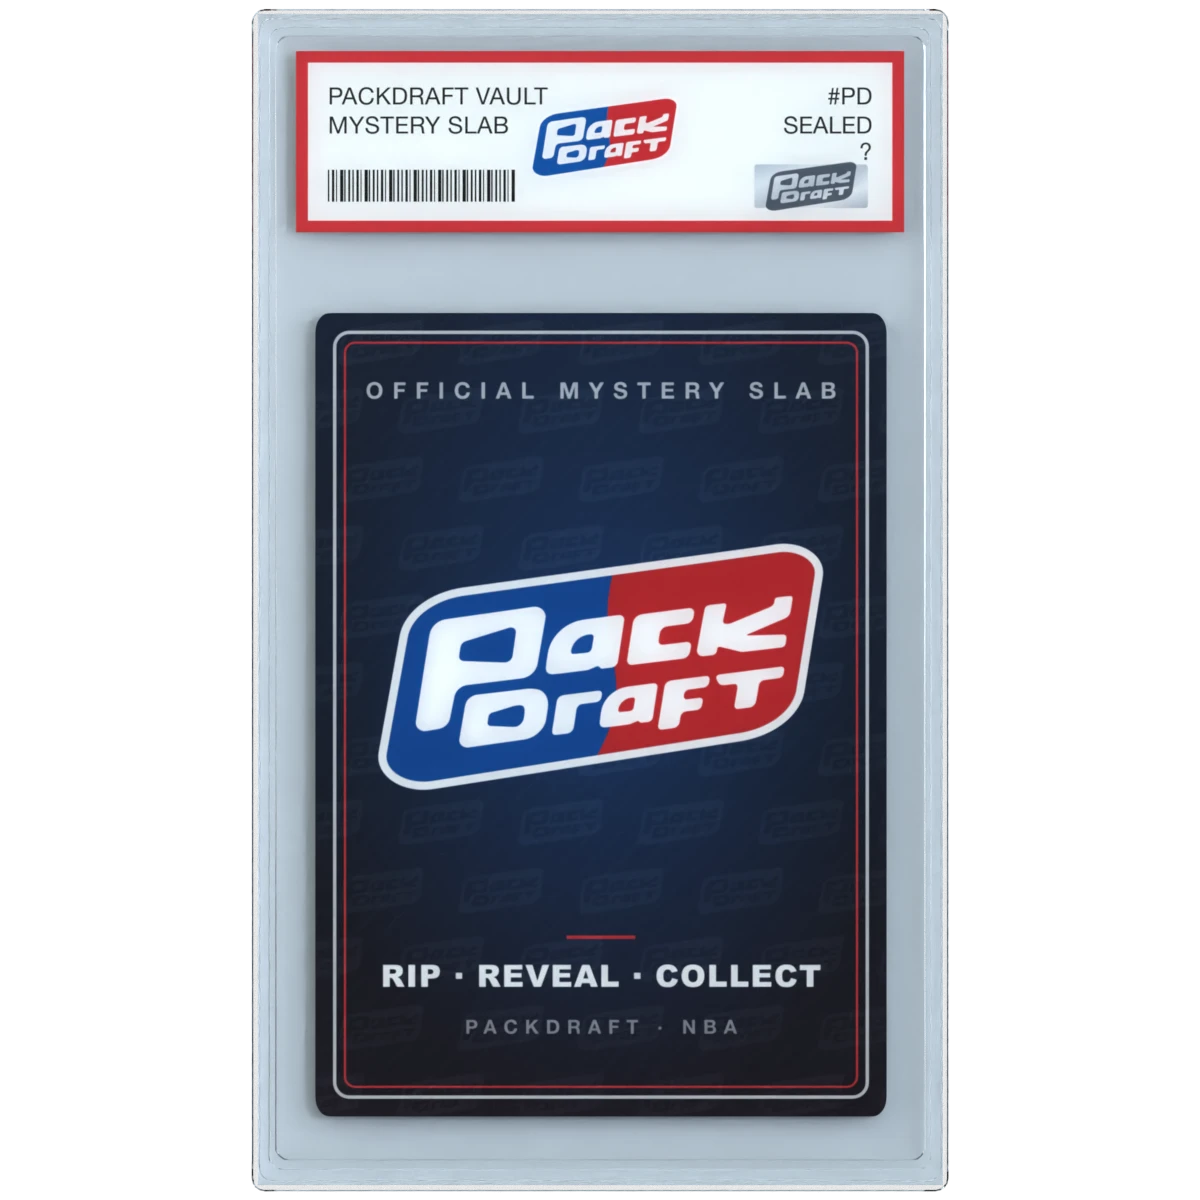
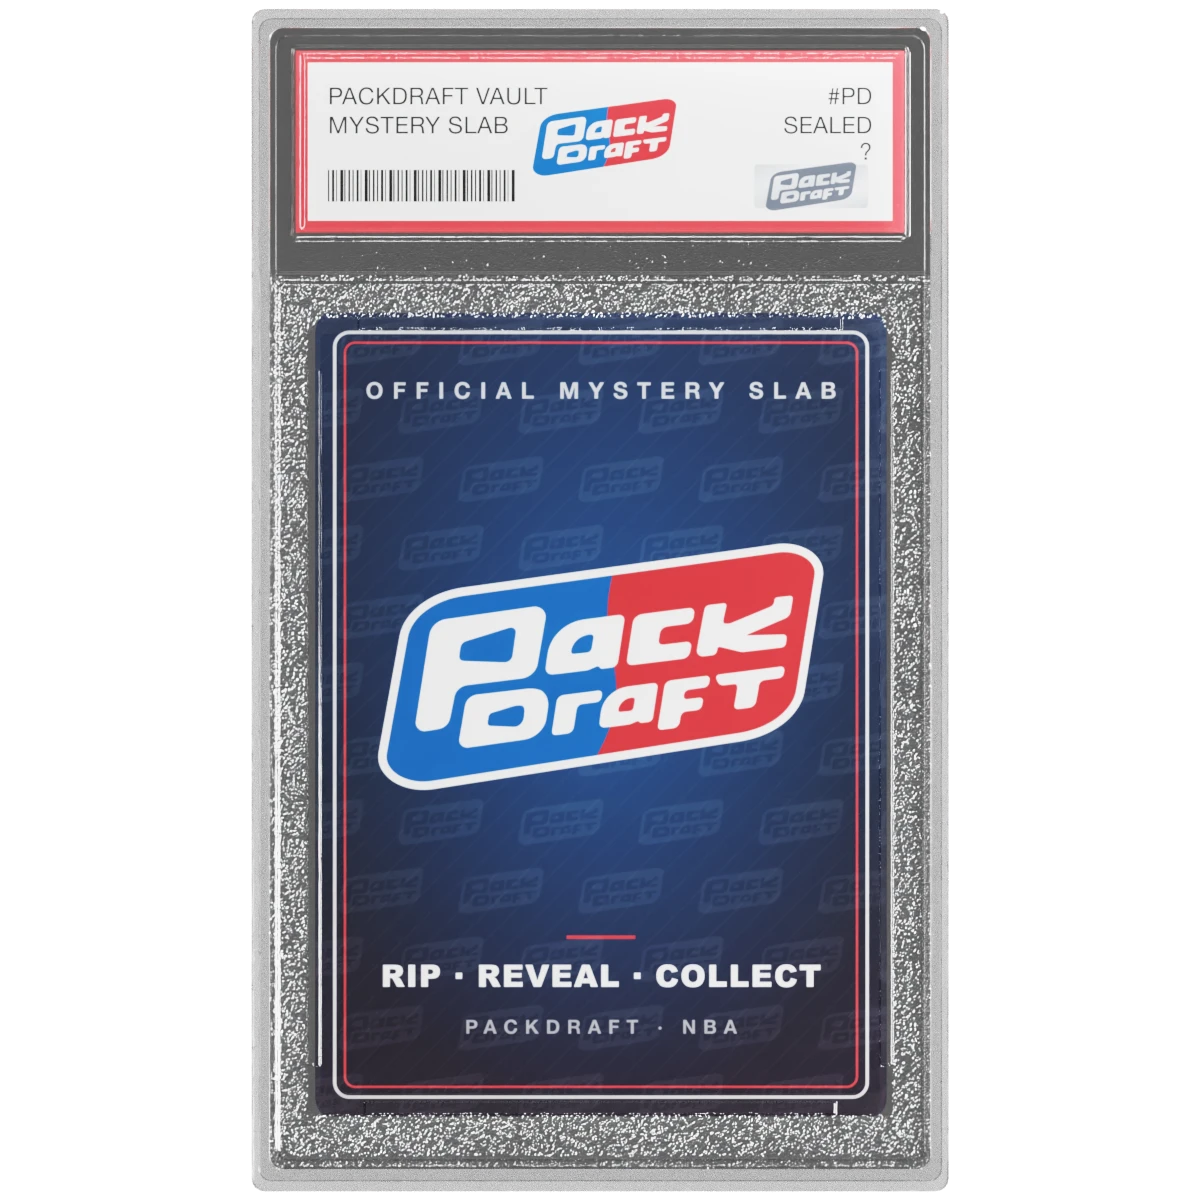
Slab back: render with the file's original frosted case materials and lights

diff --git a/src/app/packs/VendingMachine.tsx b/src/app/packs/VendingMachine.tsx
@@ -266,7 +266,7 @@ export function VendingMachine({ coins, inventory, buy, rip, sell, tester = fals
                             revealed slab scan (SlabCard), so the flip swaps back for front without a size jump. */}
                         <div className="flip-face absolute inset-0 flex flex-col items-center">
                           {/* eslint-disable-next-line @next/next/no-img-element */}
-                          <img src="/slab-back.webp" alt="" draggable={false} className="pointer-events-none max-w-none select-none"
+                          <img src="/slab-back.webp?v=2" alt="" draggable={false} className="pointer-events-none max-w-none select-none"
                             style={{ width: 260, height: 260, filter: hit ? "drop-shadow(0 0 14px rgba(251,191,36,.75))" : "drop-shadow(0 8px 12px rgba(0,0,0,.35))" }} />
                           {hit
                             ? <p className="mt-3 animate-pulse rounded-full bg-amber-400 px-2.5 py-0.5 text-[10px] font-black tracking-widest text-black">CASE HIT</p>

diff --git a/scripts/slab-back/render.py b/scripts/slab-back/render.py
@@ -1,5 +1,5 @@
 # Renders the shared slab back from PackDraft-3D-Slab.blend, framed like the 1200×1200 slab scans.
-#   Blender -b PackDraft-3D-Slab.blend -P scripts/slab-back/render.py -- <texDir> <out.png> [samples] [--save]
+#   Blender -b PackDraft-3D-Slab.blend -P scripts/slab-back/render.py -- <texDir> <out.png> [samples] [--clarity 0.5] [--clear-acrylic] [--scan-lights] [--save]
 import bpy, sys, os, glob, math
 
 argv = sys.argv[sys.argv.index("--") + 1:]
@@ -24,31 +24,42 @@ def set_tex(mat, file):
 set_tex(bpy.data.materials["Material.002"], "label.png")
 set_tex(bpy.data.materials["Material.001"], "card.png")
 
-# Clear acrylic case (the original had frosted/dispersion shaders that hazed the label) over a light grey
-# insert, which is what the scans show around the card.
-def plastic(name, rough):
-    m = bpy.data.materials.get(name) or bpy.data.materials.new(name); m.use_nodes = True
-    b = next(n for n in m.node_tree.nodes if n.type == "BSDF_PRINCIPLED")
-    b.inputs["Base Color"].default_value = (0.95, 0.96, 0.97, 1)
-    b.inputs["Transmission Weight"].default_value = 1.0
-    b.inputs["Roughness"].default_value = rough
-    b.inputs["IOR"].default_value = 1.49
-    return m
-for name, rough in (("CASE", 0.06), ("INNER CASE", 0.02)):
-    o = bpy.data.objects[name]
-    for slot in o.material_slots: slot.material = plastic("Scan_Acrylic_" + name.replace(" ", "_"), rough)
-    o.visible_shadow = False  # let light reach the card directly; Cycles won't do caustics through the acrylic
-ins = bpy.data.objects.get("Scan_Insert")
-if not ins:
-    me = bpy.data.meshes.new("Scan_Insert")
-    x0, x1, z0, z1, y = -0.121, 0.120, 0.017, 0.429, 0.0046
-    me.from_pydata([(x0, y, z0), (x1, y, z0), (x1, y, z1), (x0, y, z1)], [], [(0, 1, 2, 3)])
-    ins = bpy.data.objects.new("Scan_Insert", me); sc.collection.objects.link(ins)
-    m = bpy.data.materials.new("Scan_Insert"); m.use_nodes = True
-    bb = next(n for n in m.node_tree.nodes if n.type == "BSDF_PRINCIPLED")
-    bb.inputs["Base Color"].default_value = (0.5, 0.52, 0.55, 1); bb.inputs["Roughness"].default_value = 0.6
-    me.materials.append(m)
-ins.hide_render = False
+# Default keeps the file's original frosted case materials (Brayden's call). --clear-acrylic swaps in clear
+# plastic over a grey insert, closer to a flat scanner look.
+if "--clear-acrylic" in argv:
+    # Clear acrylic case (the original had frosted/dispersion shaders that hazed the label) over a light grey
+    # insert, which is what the scans show around the card.
+    def plastic(name, rough):
+        m = bpy.data.materials.get(name) or bpy.data.materials.new(name); m.use_nodes = True
+        b = next(n for n in m.node_tree.nodes if n.type == "BSDF_PRINCIPLED")
+        b.inputs["Base Color"].default_value = (0.95, 0.96, 0.97, 1)
+        b.inputs["Transmission Weight"].default_value = 1.0
+        b.inputs["Roughness"].default_value = rough
+        b.inputs["IOR"].default_value = 1.49
+        return m
+    for name, rough in (("CASE", 0.06), ("INNER CASE", 0.02)):
+        o = bpy.data.objects[name]
+        for slot in o.material_slots: slot.material = plastic("Scan_Acrylic_" + name.replace(" ", "_"), rough)
+        o.visible_shadow = False  # let light reach the card directly; Cycles won't do caustics through the acrylic
+    ins = bpy.data.objects.get("Scan_Insert")
+    if not ins:
+        me = bpy.data.meshes.new("Scan_Insert")
+        x0, x1, z0, z1, y = -0.121, 0.120, 0.017, 0.429, 0.0046
+        me.from_pydata([(x0, y, z0), (x1, y, z0), (x1, y, z1), (x0, y, z1)], [], [(0, 1, 2, 3)])
+        ins = bpy.data.objects.new("Scan_Insert", me); sc.collection.objects.link(ins)
+        m = bpy.data.materials.new("Scan_Insert"); m.use_nodes = True
+        bb = next(n for n in m.node_tree.nodes if n.type == "BSDF_PRINCIPLED")
+        bb.inputs["Base Color"].default_value = (0.5, 0.52, 0.55, 1); bb.inputs["Roughness"].default_value = 0.6
+        me.materials.append(m)
+    ins.hide_render = False
+elif "--clarity" in argv:
+    # --clarity C (0–1): keep the frosted case but cut its blur and glare so the label and card read.
+    c = float(argv[argv.index("--clarity") + 1])
+    for m in {s.material for o in ("CASE",) for s in bpy.data.objects[o].material_slots if s.material}:
+        b = next((n for n in m.node_tree.nodes if n.type == "BSDF_PRINCIPLED"), None)
+        if b:
+            b.inputs["Roughness"].default_value *= (1 - c)
+            b.inputs["IOR"].default_value = 1.5 + (b.inputs["IOR"].default_value - 1.5) * (1 - c)
 
 # Straight-on orthographic camera, slab filling the frame height like the scans.
 cam = bpy.data.objects.get("Scan_Cam") or bpy.data.objects.new("Scan_Cam", bpy.data.cameras.new("Scan_Cam"))
@@ -59,30 +70,36 @@ cam.location = (-0.0006, -1.0, 0.2228)
 cam.rotation_euler = (math.radians(90), 0, 0)
 sc.camera = cam
 
-# Scanner-like light: big soft panels from the front, a little from above to pick out the case bevels.
-def area(name, loc, rot, energy, size):
-    l = bpy.data.objects.get(name) or bpy.data.objects.new(name, bpy.data.lights.new(name, "AREA"))
-    if l.name not in sc.collection.objects: sc.collection.objects.link(l)
-    l.data.energy, l.data.size = energy, size
-    l.location, l.rotation_euler = loc, rot
-    return l
-for o in bpy.data.objects:
-    if o.type == "LIGHT": o.hide_render = True
-# Lights sit off-axis so the flat acrylic face never mirrors them straight into the camera (that washes the art out).
-for l in (area("Scan_Left", (-0.75, -0.6, 0.45), (math.radians(70), 0, math.radians(-50)), 4, 0.9),
-          area("Scan_Right", (0.75, -0.6, 0.35), (math.radians(75), 0, math.radians(50)), 3, 0.9),
-          area("Scan_Top", (0, -0.35, 0.95), (math.radians(25), 0, 0), 1.5, 0.8)):
-    l.hide_render = False; l.visible_camera = False
-
-w = bpy.data.worlds.new("ScanWorld"); sc.world = w; w.use_nodes = True
-nt = w.node_tree; nt.nodes.clear()
-bg, out = nt.nodes.new("ShaderNodeBackground"), nt.nodes.new("ShaderNodeOutputWorld")
 hdr = glob.glob(os.path.join(os.path.dirname(bpy.app.binary_path), "../Resources/*/datafiles/studiolights/world/studio.exr"))
-if hdr:
-    env = nt.nodes.new("ShaderNodeTexEnvironment"); env.image = bpy.data.images.load(os.path.abspath(hdr[0]), check_existing=True)
-    nt.links.new(env.outputs["Color"], bg.inputs["Color"])
-bg.inputs["Strength"].default_value = 0.25
-nt.links.new(bg.outputs["Background"], out.inputs["Surface"])
+if "--scan-lights" in argv:
+    # Scanner-like light: big soft panels from the front, a little from above to pick out the case bevels.
+    def area(name, loc, rot, energy, size):
+        l = bpy.data.objects.get(name) or bpy.data.objects.new(name, bpy.data.lights.new(name, "AREA"))
+        if l.name not in sc.collection.objects: sc.collection.objects.link(l)
+        l.data.energy, l.data.size = energy, size
+        l.location, l.rotation_euler = loc, rot
+        return l
+    for o in bpy.data.objects:
+        if o.type == "LIGHT": o.hide_render = True
+    # Lights sit off-axis so the flat acrylic face never mirrors them straight into the camera (that washes the art out).
+    for l in (area("Scan_Left", (-0.75, -0.6, 0.45), (math.radians(70), 0, math.radians(-50)), 4, 0.9),
+              area("Scan_Right", (0.75, -0.6, 0.35), (math.radians(75), 0, math.radians(50)), 3, 0.9),
+              area("Scan_Top", (0, -0.35, 0.95), (math.radians(25), 0, 0), 1.5, 0.8)):
+        l.hide_render = False; l.visible_camera = False
+
+    w = bpy.data.worlds.new("ScanWorld"); sc.world = w; w.use_nodes = True
+    nt = w.node_tree; nt.nodes.clear()
+    bg, out = nt.nodes.new("ShaderNodeBackground"), nt.nodes.new("ShaderNodeOutputWorld")
+    hdr = glob.glob(os.path.join(os.path.dirname(bpy.app.binary_path), "../Resources/*/datafiles/studiolights/world/studio.exr"))
+    if hdr:
+        env = nt.nodes.new("ShaderNodeTexEnvironment"); env.image = bpy.data.images.load(os.path.abspath(hdr[0]), check_existing=True)
+        nt.links.new(env.outputs["Color"], bg.inputs["Color"])
+    bg.inputs["Strength"].default_value = 0.25
+    nt.links.new(bg.outputs["Background"], out.inputs["Surface"])
+elif hdr and sc.world:
+    # Original lights and world. The file's HDRI is a missing Windows path, so swap in Blender's studio HDRI.
+    for n in sc.world.node_tree.nodes:
+        if n.type == "TEX_ENVIRONMENT": n.image = bpy.data.images.load(os.path.abspath(hdr[0]), check_existing=True)
 
 r = sc.render
 r.engine = "CYCLES"
@@ -97,7 +114,8 @@ r.resolution_x = r.resolution_y = 1200; r.resolution_percentage = 100
 r.film_transparent = True
 r.use_compositing = False  # the file had a lens-dispersion comp that smeared the label text
 r.image_settings.file_format = "PNG"; r.image_settings.color_mode = "RGBA"
-sc.view_settings.view_transform = "Standard"; sc.view_settings.look = "None"; sc.view_settings.exposure = -0.35
+if "--scan-lights" in argv:
+    sc.view_settings.view_transform = "Standard"; sc.view_settings.look = "None"; sc.view_settings.exposure = -0.35
 sc.frame_current = sc.frame_start
 r.filepath = OUT
 bpy.ops.render.render(write_still=True)
